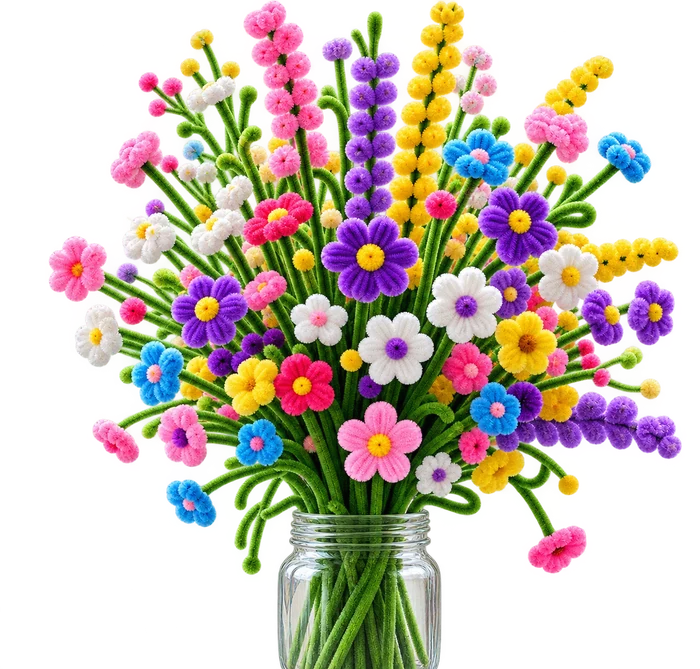
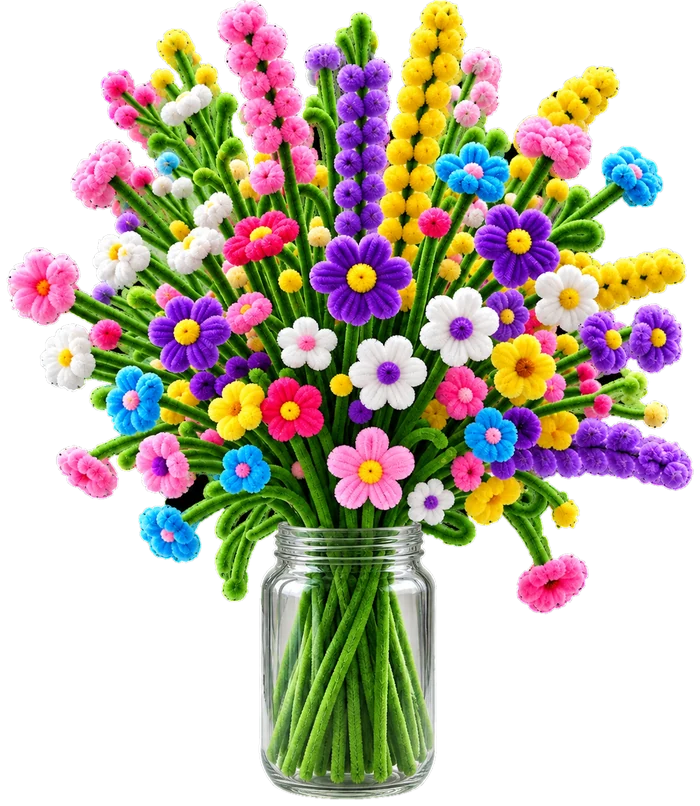
1

diff --git a/animations.html b/animations.html
@@ -822,7 +822,7 @@
       </div>
 
       <div class="program-card">
-        <div class="program-card__photo" style="align-items:center"><img src="images/masterclass/svetovoy-mech.webp" alt="Световой меч" loading="lazy"></div>
+        <div class="program-card__photo"><img src="images/masterclass/svetovoy-mech.webp" alt="Световой меч" loading="lazy"></div>
         <div class="program-card__body">
           <h3 class="program-card__title">Световой меч</h3>
           <div class="program-card__meta">
